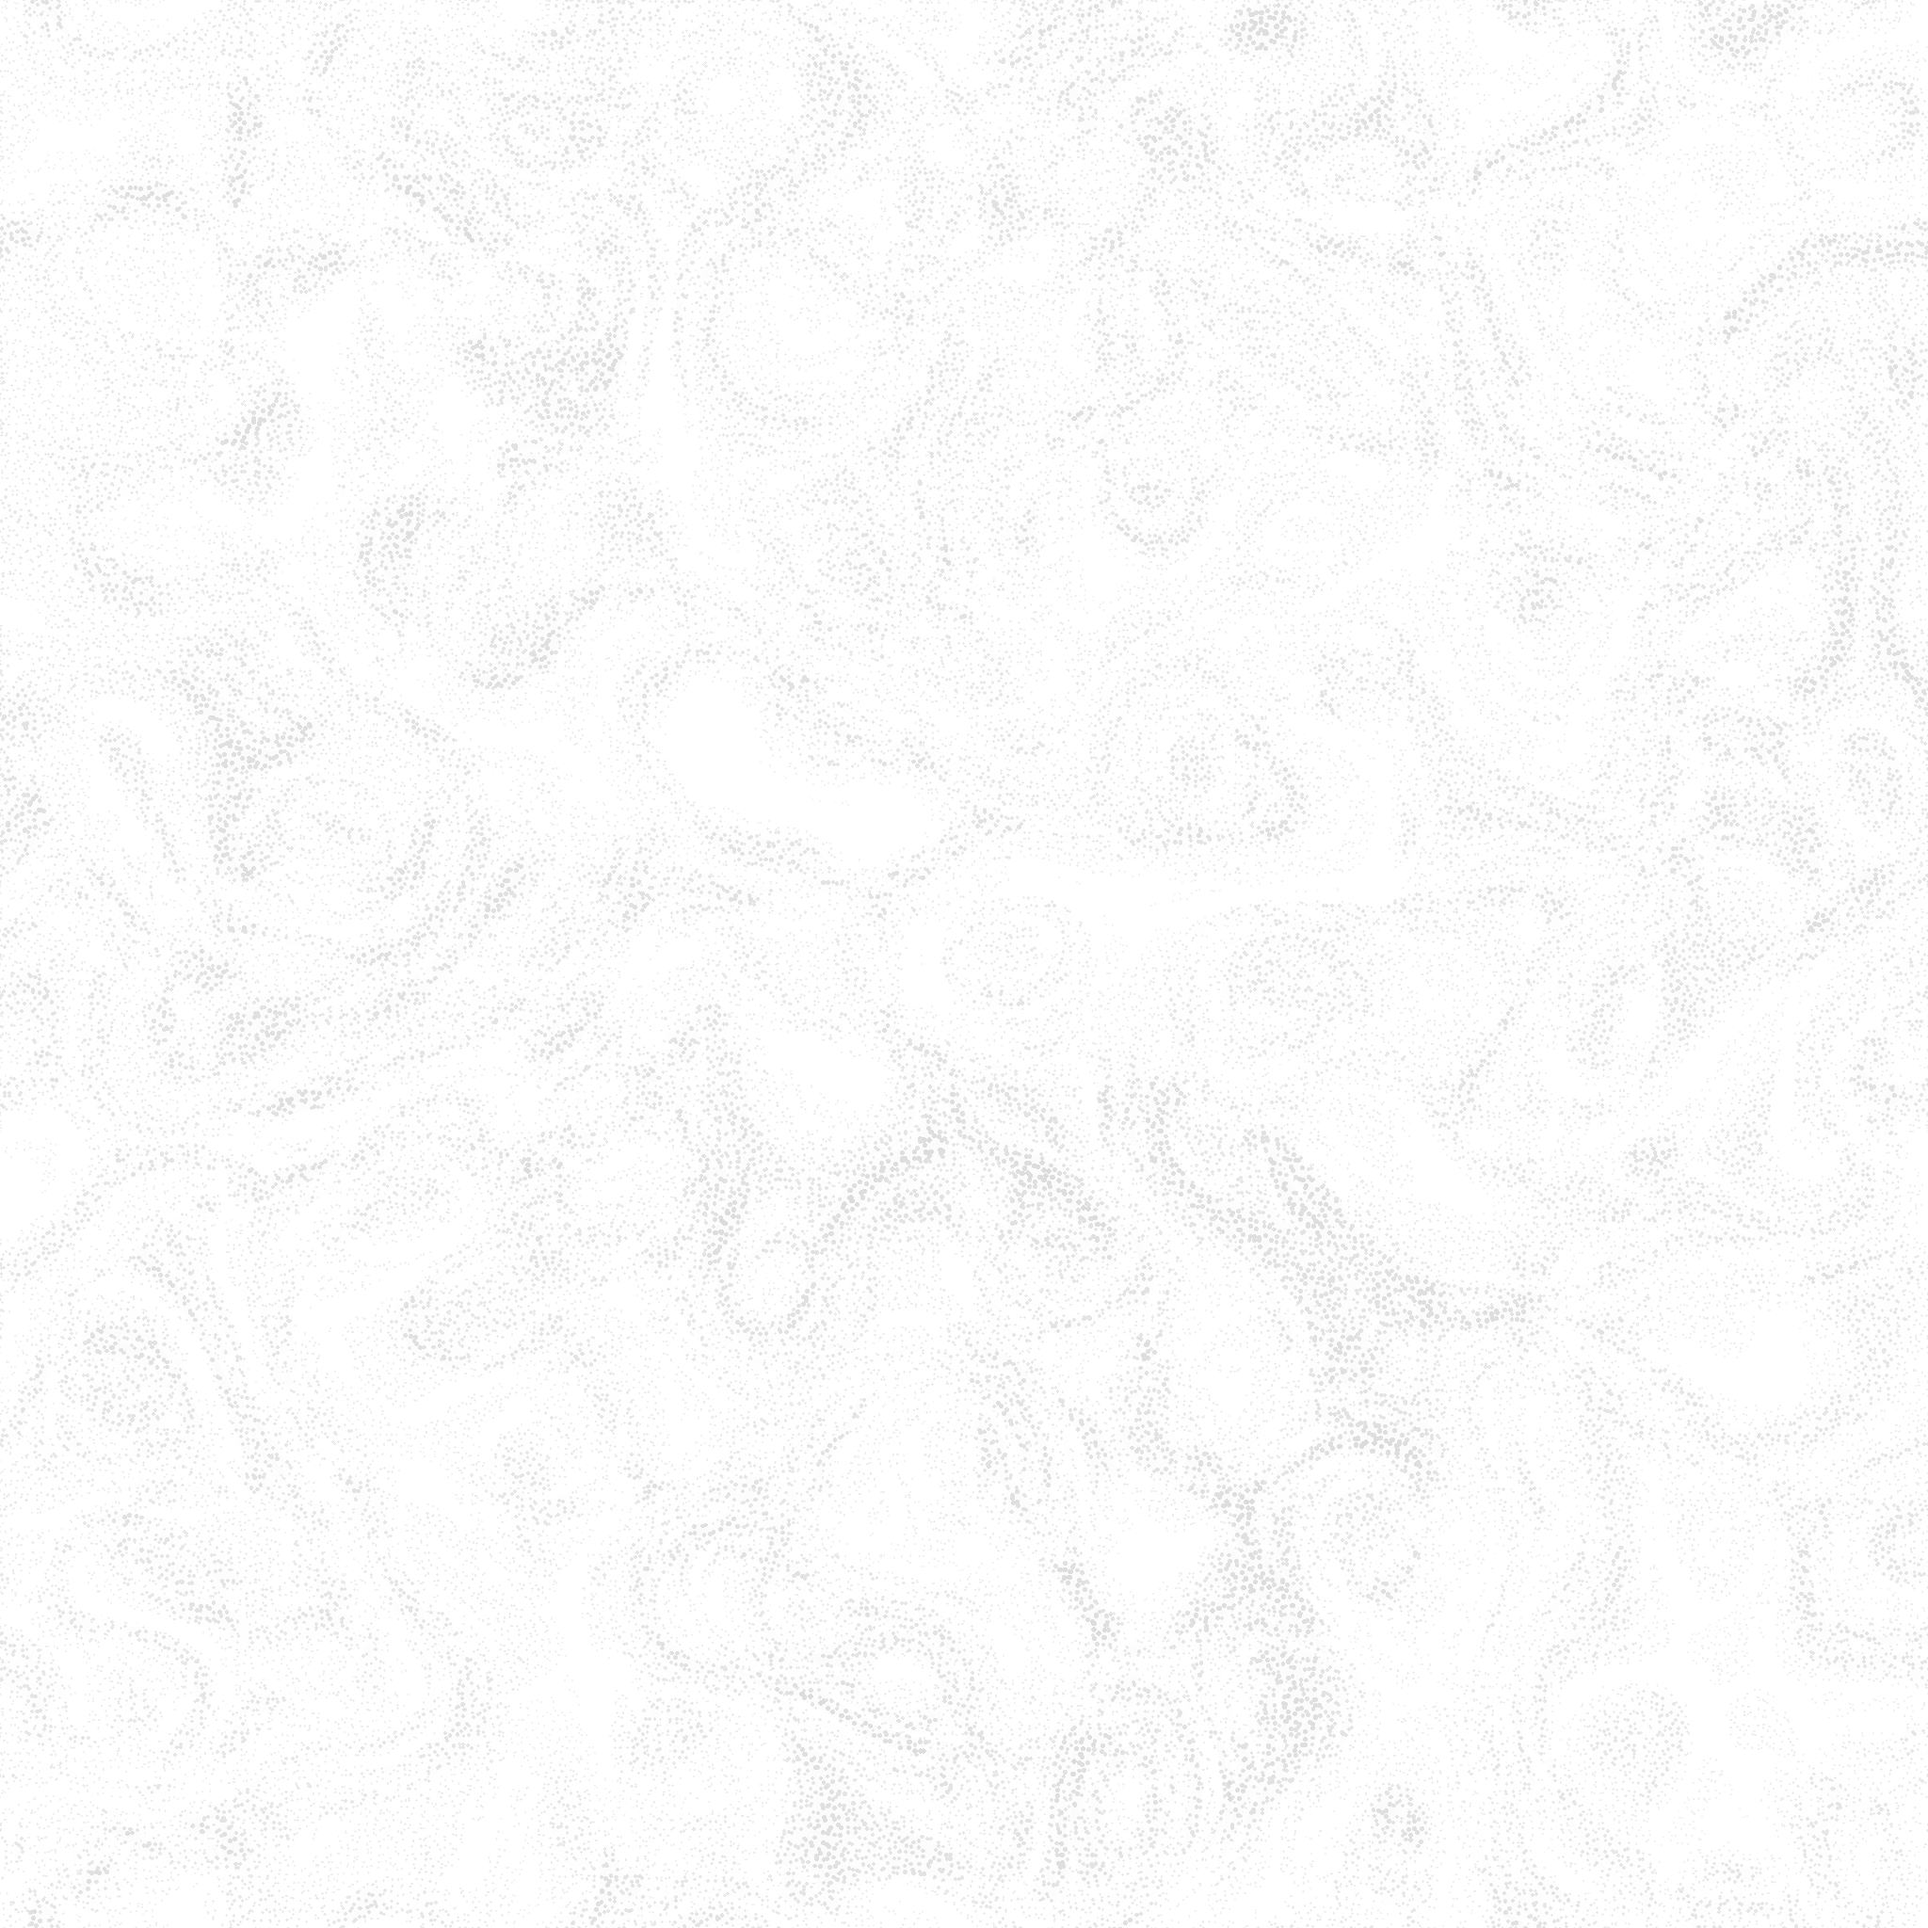
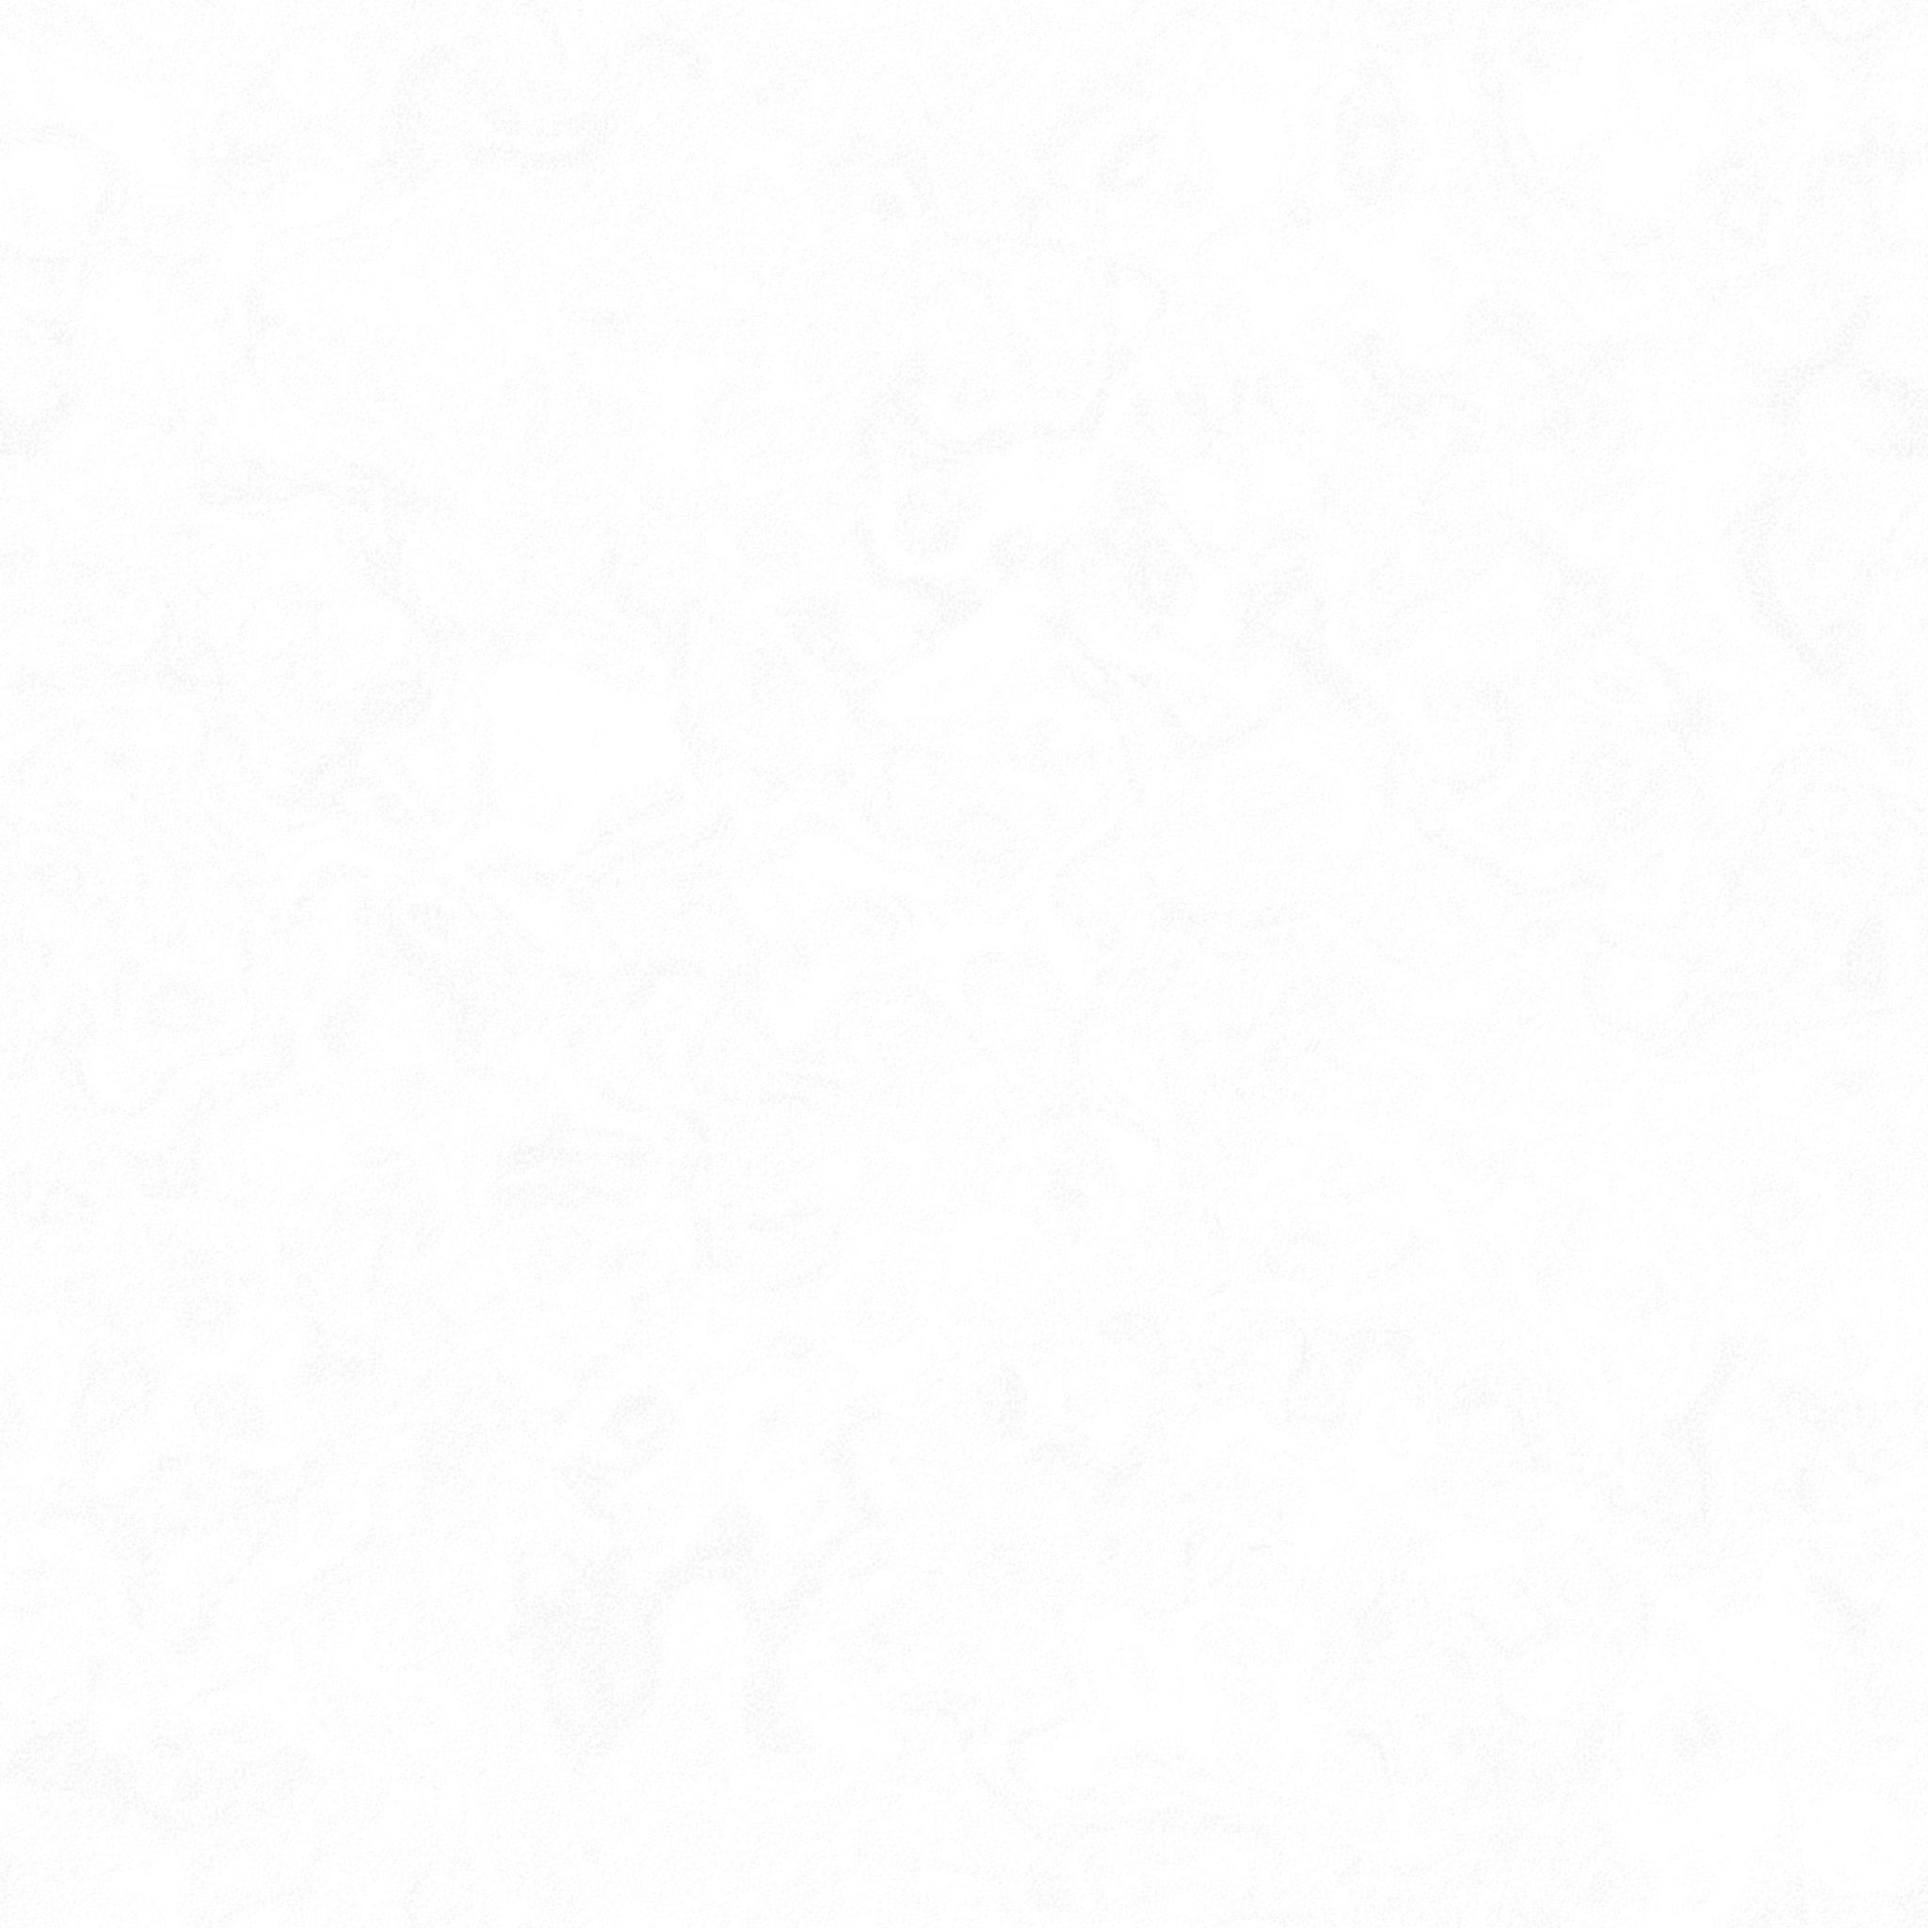
Paper: smaller, near-imperceptible mix of patterns
paper.jpg now mixes a fine stipple over small marbled shapes with the earlier cold-press relief, tooth
and sparse specks (mean 99.7% white); paper-mottle.jpg adds soft large mottling at another period so
the two never line up. Fainter warm tint.

diff --git a/web/app.css b/web/app.css
@@ -18,9 +18,10 @@ body{margin:0;background:var(--bg);color:var(--ink);font:15px/1.45 "Instrument S
 .map{position:relative;height:100%;overflow:hidden;cursor:grab;touch-action:none;user-select:none}
 .map.drag{cursor:grabbing}.map.placing{cursor:copy}.map.over{cursor:pointer}
 .map>canvas{position:absolute;inset:0;width:100%;height:100%;transform-origin:0 0}.map>canvas.under,.map>canvas.over{transform:none!important;pointer-events:none}
-/* outside the frame: paper, a generated stipple over domain-warped marble shapes (paper.jpg: 2048 px shown at 1024, so the dots
-   stay sharp), multiplied onto a warm tint of the ground */
-.map{background:color-mix(in srgb,var(--bg) 93%,#d9cfbd) url(paper.jpg) 0 0/1024px 1024px;background-blend-mode:multiply}
+/* outside the frame: paper. Two generated layers with different periods so they never line up: paper.jpg (2048 px shown at 1024:
+   a fine stipple over small marbled shapes, cold-press relief, tooth and specks) and paper-mottle.jpg (soft large mottling),
+   both near white and multiplied onto a faint warm tint of the ground */
+.map{background:url(paper.jpg) 0 0/1024px 1024px,url(paper-mottle.jpg) 0 0/1700px 1700px,color-mix(in srgb,var(--bg) 96%,#d9cfbd);background-blend-mode:multiply}
 :root[data-theme=dark] .map{background-blend-mode:soft-light}
 @media(prefers-color-scheme:dark){:root:not([data-theme=light]) .map{background-blend-mode:soft-light}}
 .title{position:absolute;left:16px;top:12px;font-size:13px;color:var(--mute);pointer-events:none}.title b{color:var(--ink);font-weight:600}
@@ -56,7 +57,7 @@ body{margin:0;background:var(--bg);color:var(--ink);font:15px/1.45 "Instrument S
 .pager{position:absolute;z-index:7;transform:translateX(-50%);display:flex;align-items:center;gap:6px;font-size:12px;background:var(--card);border:1px solid var(--line);padding:2px;animation:rise .3s ease both}
 .pager button{min-height:28px;min-width:28px;padding:0;border:0}
 .bw canvas.now{filter:grayscale(1) brightness(1.314) contrast(.797)}
-.bw .map>canvas{filter:grayscale(1)}.bw .map{background-color:color-mix(in srgb,var(--bg) 93%,#cfcfcf)}
+.bw .map>canvas{filter:grayscale(1)}.bw .map{background-color:color-mix(in srgb,var(--bg) 96%,#cfcfcf)}
 .hint{position:absolute;pointer-events:none;outline:1.5px solid var(--ink);background:color-mix(in srgb,var(--ink) 6%,transparent)}
 
 /* squares that show a case (unlike squares that hold data): a white, semi-transparent mat with a white border, the item mounted inside.
